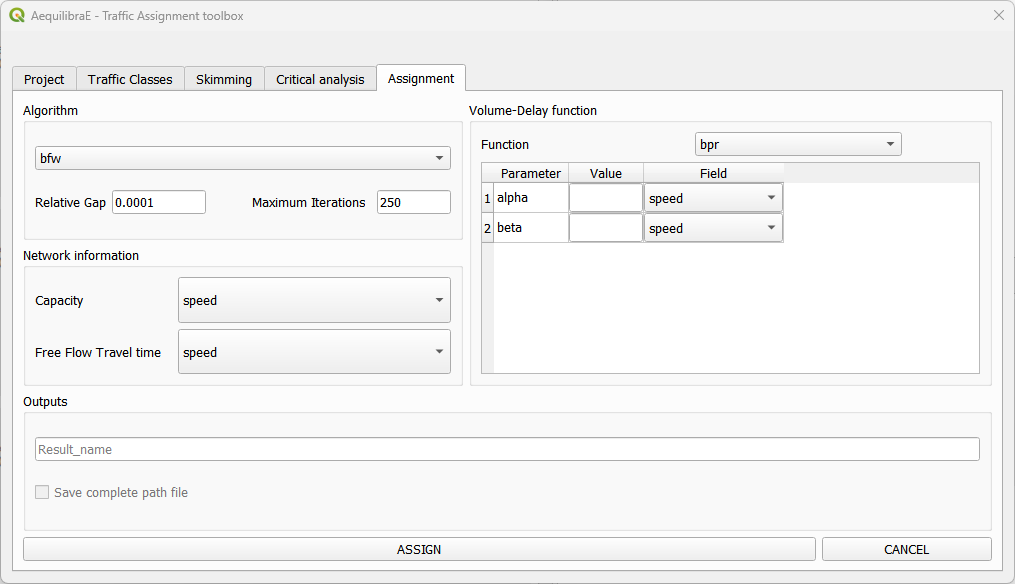
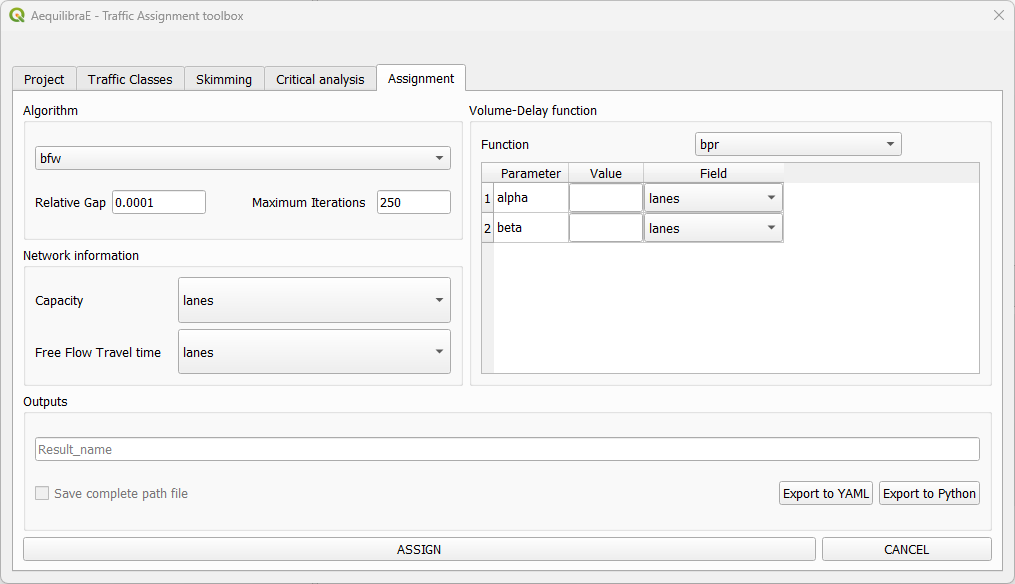
docs

diff --git a/docs/source/menus_in_detail/traffic_assignment.rst b/docs/source/menus_in_detail/traffic_assignment.rst
@@ -11,7 +11,8 @@ perform traffic assignment, since we have a demand matrix.
     :alt: Traffic assignment widget menu
 
 The Traffic Assignment window currently has five tabs. The first one is the *Project* tab
-where you can check the project path and the available modes.
+where you can check the project path and the available modes. In the *Project* tab it is
+also possible to load configuration from a YAML file.
 
 .. image:: ../images/traffic_assignment/traffic_assignment_project_tab.png
     :align: center
@@ -59,7 +60,10 @@ are also configured here.
 In the *Assignment* tab we select the assignment algorithm and configure the volume-delay
 function and its *alpha* and *beta* parameters. The fields for link capacity and free flow
 travel time are selected. We also confirm the relative gap and maximum number of iterations
-we want, and the output folder.
+we want, and the output folder. Now it is possible to save your project configurations in
+either one Python or YAML file. While the Python file is stored inside the project run folder
+to be executed as part of 'Run procedures', the YAML file can be used as input for other
+model runs, as input in the *Project* tab.
 
 .. image:: ../images/traffic_assignment/traffic_assignment_assignment_tab.png
     :align: center
